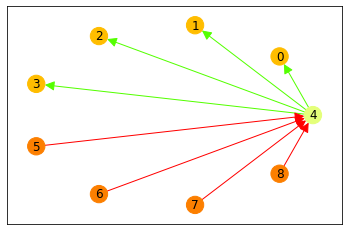
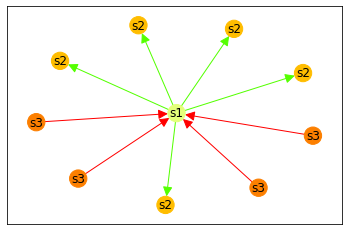
Ring graph

diff --git a/ring_graph/ring_graph_plotter.py b/ring_graph/ring_graph_plotter.py
@@ -8,12 +8,17 @@ def plot_star(G):
     plots a star pattern
     """
     plt.subplot(111)
-    pos = nx.circular_layout(G )
-    color = [int(x[-1])/2 for _,x in nx.get_node_attributes(G,'label').items()]
+    # pos = nx.circular_layout(G )
+    pos = nx.nx_pydot.graphviz_layout(G, prog='neato')
+    labels = [x for _,x in nx.get_node_attributes(G,'label').items()]
+    node_labels = {n:x for n,x in nx.get_node_attributes(G,'label').items()}
+    label_dic = {n:i for i,n in enumerate(set(labels))}
+    color = [label_dic[x] for _,x in nx.get_node_attributes(G,'label').items()]
     edges,weights = zip(*nx.get_edge_attributes(G,'weight').items())
     options = {
         'node_color': color,
         'node_size': 300,
+        'labels': node_labels,
         'edgelist':edges, 
         'edge_color':weights,
         'width': 1,
